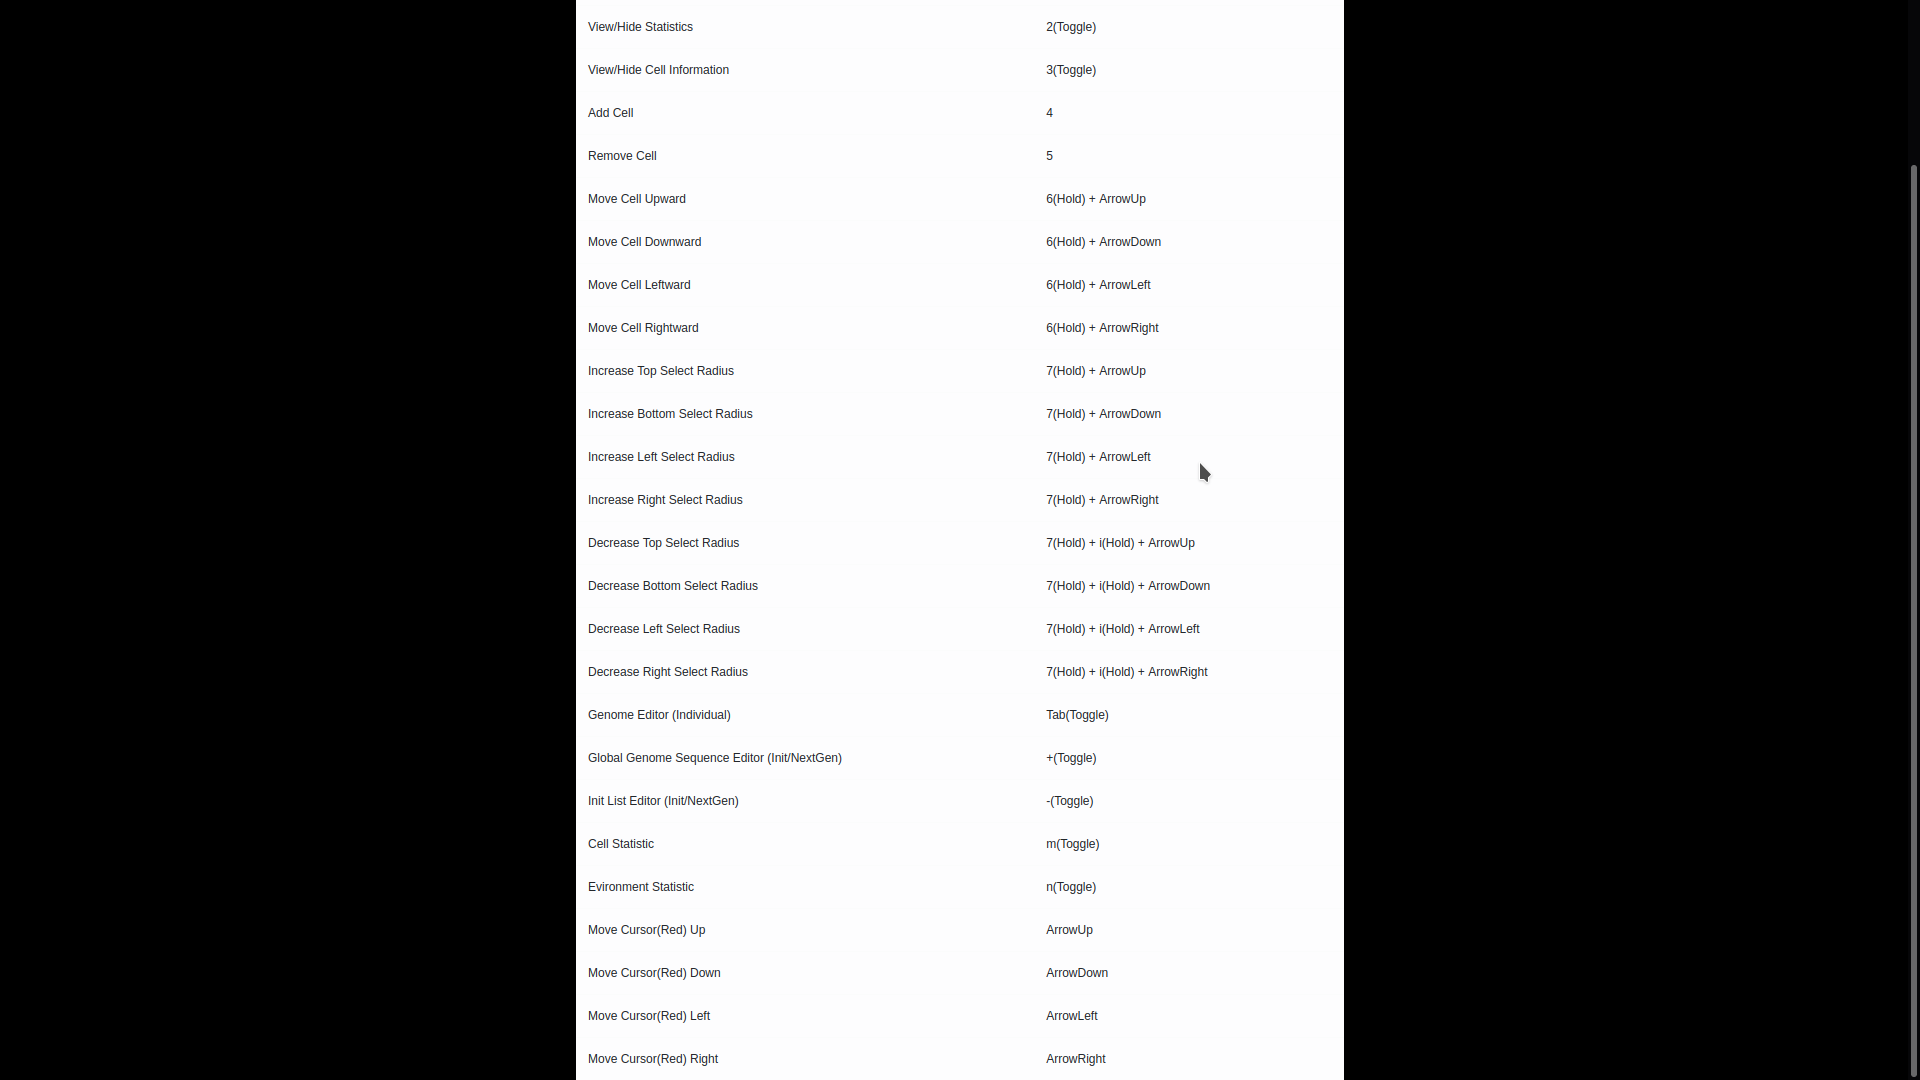
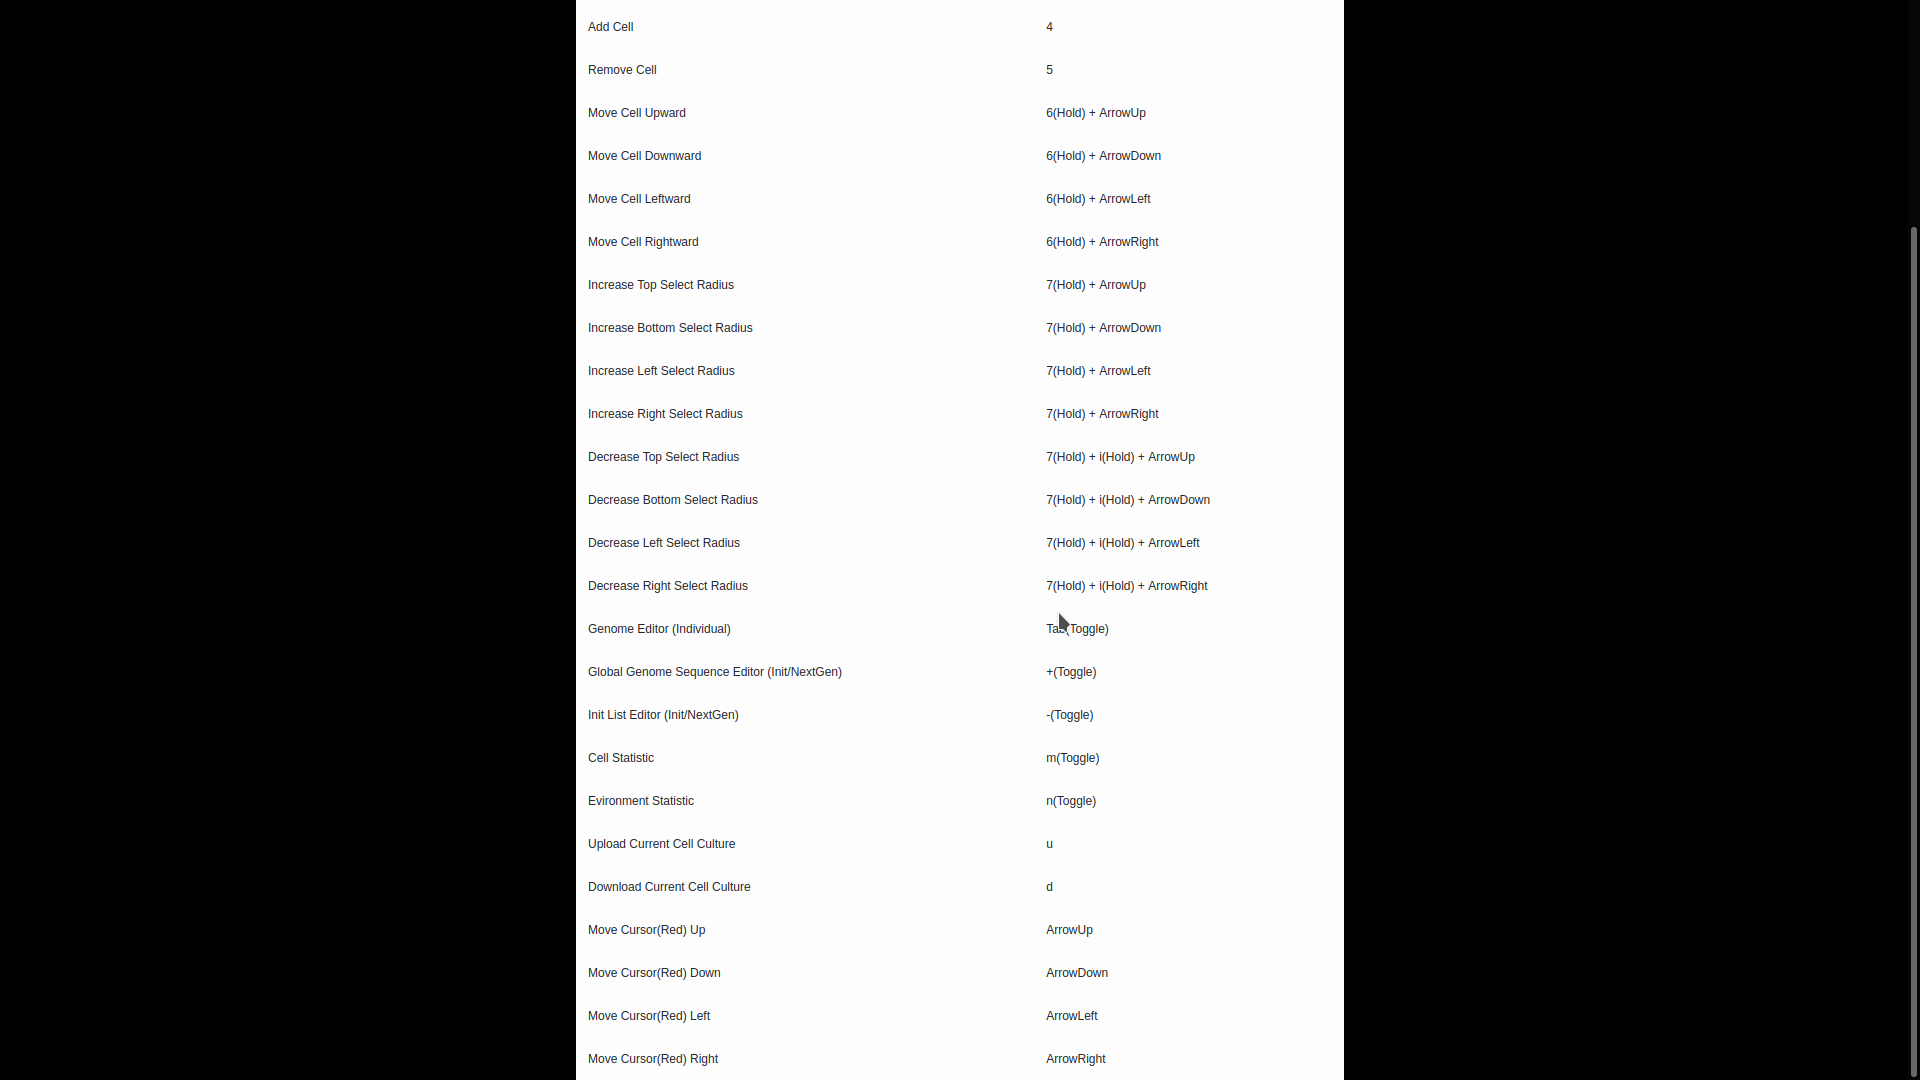
update

diff --git a/src/app.js b/src/app.js
@@ -2289,6 +2289,14 @@ function App() {
             <td>n(Toggle)</td>
           </tr>
           <tr>
+            <td>Upload Current Cell Culture </td>
+            <td>u</td>
+          </tr>
+          <tr>
+            <td>Download Current Cell Culture </td>
+            <td>d</td>
+          </tr>
+          <tr>
             <td>Move Cursor(Red) Up </td>
             <td>ArrowUp</td>
           </tr>
